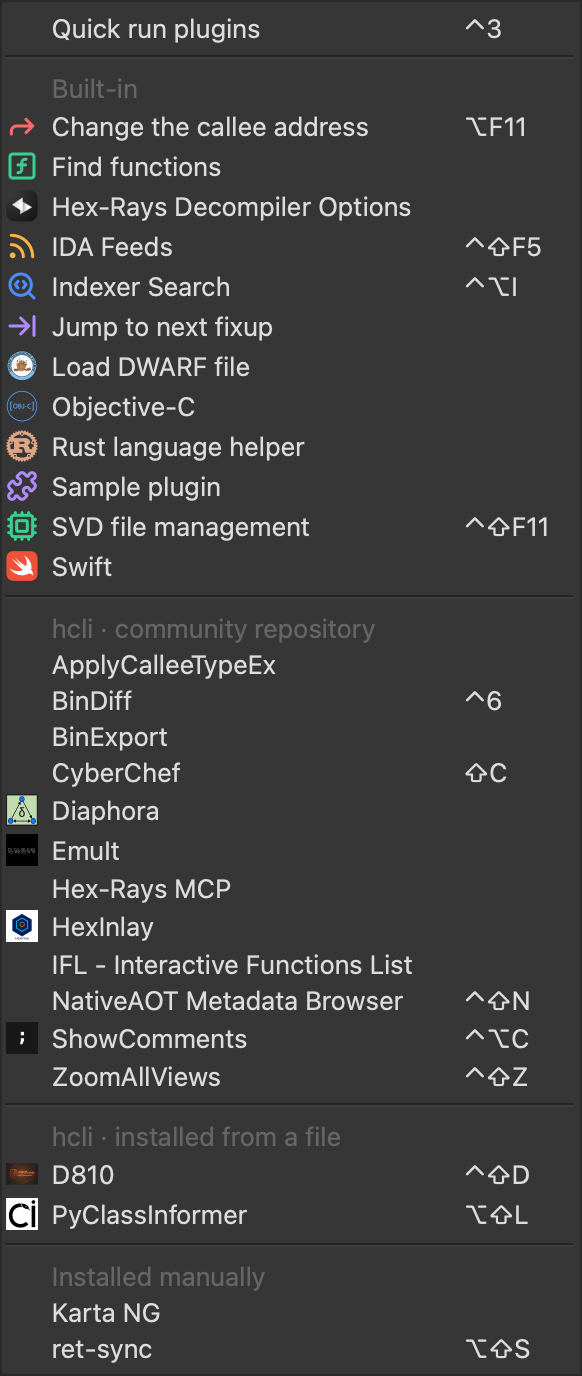
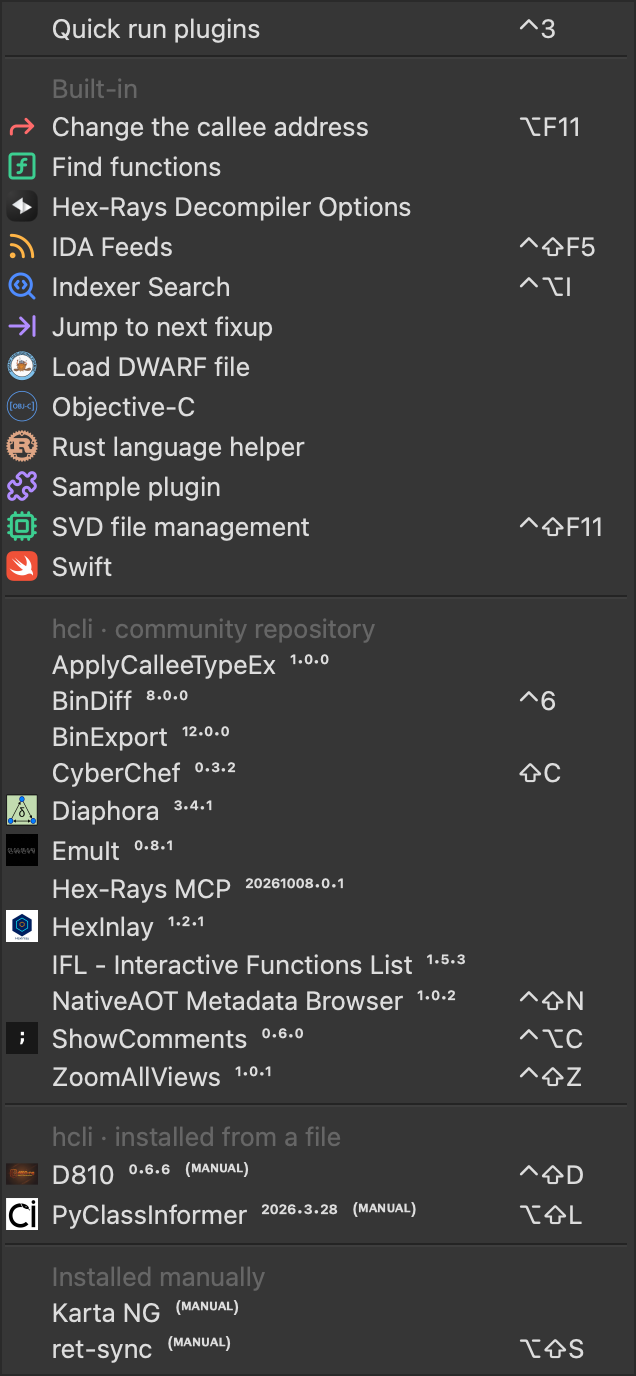
Show each plugin's version, and whether it is out-dated or installed manually

diff --git a/plugin_icons.py b/plugin_icons.py
@@ -16,6 +16,7 @@ answer is kept for grouping the menu until then.
 
 Settings, in <IDA user directory>/plugin-icons/settings.json:
   {"group_menu": false}     keep IDA's own order
+  {"show_versions": false}  don't show the versions
   {"hcli_sources": false}   don't run hcli: one group for all hcli plugins
   {"hcli_path": "..."}      the hcli executable, if it isn't found
 """
@@ -44,7 +45,7 @@ USER_DIR = "plugin-icons"
 IMAGE_EXTENSIONS = (".png", ".jpg", ".jpeg", ".gif", ".bmp")
 DISABLED_EXTENSION = ".none"
 SETTINGS_FILE = "settings.json"
-DEFAULT_SETTINGS = {"group_menu": True, "hcli_sources": True, "hcli_path": None}
+DEFAULT_SETTINGS = {"group_menu": True, "show_versions": True, "hcli_sources": True, "hcli_path": None}
 HCLI_SOURCES_FILE = "hcli-sources.json"
 ICON_SIZE = 64  # rendered square; Qt scales it down to the menu's size
 
@@ -52,6 +53,52 @@ BUILTIN = "Built-in"
 HCLI = "Installed with hcli"  # where from isn't known (yet)
 HCLI_FILE = "hcli \u00b7 installed from a file"
 MANUAL = "Installed manually"
+
+
+# Unicode has superscript forms for the digits and most letters (not q)
+_SUPERSCRIPT = str.maketrans(
+    "0123456789abcdefghijklmnoprstuvwxyz.-+=()",
+    "\u2070\u00b9\u00b2\u00b3\u2074\u2075\u2076\u2077\u2078\u2079"
+    "\u1d43\u1d47\u1d9c\u1d48\u1d49\u1da0\u1d4d\u02b0\u2071\u02b2\u1d4f\u02e1\u1d50\u207f\u1d52\u1d56"
+    "\u02b3\u02e2\u1d57\u1d58\u1d5b\u02b7\u02e3\u02b8\u1dbb"
+    # "." -> U+0387: centred on the superscript digits in menu fonts, where
+    # the usual middle dot (U+00B7) sits below them
+    "\u0387\u207b\u207a\u207c\u207d\u207e",
+)
+
+
+def _superscript(text):
+    """text in superscript characters, which look small next to normal text."""
+    return text.lower().translate(_SUPERSCRIPT)
+
+
+# the tags in superscript capitals: they all exist at one height, while the
+# lowercase superscript l is short ("(manual)" read as "(manuaı)")
+TAG_OUTDATED = "\u207d\u1d3c\u1d41\u1d40\u207b\u1d30\u1d2c\u1d40\u1d31\u1d30\u207e"  # (OUT-DATED)
+TAG_MANUAL = "\u207d\u1d39\u1d2c\u1d3a\u1d41\u1d2c\u1d38\u207e"  # (MANUAL)
+
+
+def _label(name, plugin_file, group, hcli_sources):
+    """The menu text for a plugin: its name, version and a tag, if any.
+
+    Built-in plugins: the name. Installed from a repository: the version,
+    and "(out-dated)" if hcli has a newer one. Installed from a file or
+    manually: the version (if known) and "(manual)".
+    """
+    if group == BUILTIN:
+        return name
+    parts = [name]
+    folder = _plugin_folder(plugin_file)
+    version = folder and _metadata(folder).get("version")
+    if isinstance(version, str) and version:
+        parts.append(_superscript(version))
+    if group in (HCLI_FILE, MANUAL):
+        parts.append(TAG_MANUAL)
+    elif group != HCLI and hcli_sources:  # from a repository
+        plugin = hcli_sources.get(folder and _metadata(folder).get("name"), {})
+        if plugin.get("outdated"):
+            parts.append(TAG_OUTDATED)
+    return "  ".join(parts)
 
 
 def _hcli_repo_group(repo):
@@ -151,8 +198,8 @@ def _declared_logo(plugin_file):
 def _group(plugin_file, hcli_sources):
     """The menu group of the plugin in plugin_file.
 
-    hcli_sources: {hcli plugin name: repository name, or None if installed
-    from a file}, or None when not known.
+    hcli_sources: {hcli plugin name: {"repo": repository name, or None if
+    installed from a file, "outdated": bool}}, or None when not known.
     """
     builtin = os.path.realpath(ida_diskio.idadir("plugins"))
     try:
@@ -167,7 +214,7 @@ def _group(plugin_file, hcli_sources):
     name = _metadata(folder).get("name")
     if not hcli_sources or name not in hcli_sources:
         return HCLI
-    repo = hcli_sources[name]
+    repo = hcli_sources[name]["repo"]
     return _hcli_repo_group(repo) if repo else HCLI_FILE
 
 
@@ -176,12 +223,17 @@ def _hcli_sources_path():
 
 
 def _cached_hcli_sources():
-    """The sources hcli reported last time, or None."""
+    """The sources hcli reported last time (see _group()), or None."""
     try:
         with open(_hcli_sources_path(), encoding="utf-8") as f:
-            return dict(json.load(f)["plugins"])
+            plugins = dict(json.load(f)["plugins"])
     except (OSError, ValueError, KeyError, TypeError):
         return None
+    # files from version 1.0 hold just the repository
+    return {
+        name: info if isinstance(info, dict) else {"repo": info, "outdated": False}
+        for name, info in plugins.items()
+    }
 
 
 def _hcli_executable(configured):
@@ -194,7 +246,7 @@ def _hcli_executable(configured):
 
 
 def _query_hcli_sources(hcli):
-    """{plugin name: repository or None} from `hcli plugin status --json`."""
+    """The sources (see _group()) from `hcli plugin status --json`."""
     result = subprocess.run(
         [hcli, "plugin", "status", "--json"],
         capture_output=True, text=True, timeout=120,
@@ -203,7 +255,10 @@ def _query_hcli_sources(hcli):
     )
     plugins = json.loads(result.stdout)["plugins"]
     return {
-        p["name"]: (p.get("repo") if p.get("in_repository") else None)
+        p["name"]: {
+            "repo": p.get("repo") if p.get("in_repository") else None,
+            "outdated": bool(p.get("upgradable_to")),
+        }
         for p in plugins
         if p.get("kind") == "installed" and p.get("name")
     }
@@ -261,22 +316,21 @@ def _square_png(path):
     return bytes(data)
 
 
-def _menu_name(action):
-    return action.text().replace("&", "")
-
-
 class _MenuIcons(ida_kernwin.UI_Hooks):
     def __init__(self):
         super().__init__()
         self._icons = {}  # image path -> icon id (None if it can't be loaded)
         self._set = {}  # action name -> icon id set by this plugin
         self._seen = None  # the plugin actions handled last time
-        self._groups = {}  # menu name -> group, when grouping the menu
         self._plugin_paths = {}
+        self._settings = dict(DEFAULT_SETTINGS)
+        self._names = set()  # menu names of the plugins with an entry
+        self._groups = {}  # menu name -> group, when grouping the menu
+        self._labels = {}  # menu name -> text shown, when showing versions
         self._hcli_sources = _cached_hcli_sources()
         self._hcli_asked = False  # whether hcli was asked this session
         self._added = {}  # id(menu) -> the headers and separators added to it
-        self._connected = set()  # ids of the menus regrouped before each opening
+        self._connected = set()  # ids of the menus styled again before each opening
         self._menu_retries = 100  # updates to wait for the menu to exist
 
     def updated_actions(self):
@@ -286,9 +340,9 @@ class _MenuIcons(ida_kernwin.UI_Hooks):
             name for name in ida_kernwin.get_registered_actions() if name.startswith(MENU_PREFIX)
         )
         if actions == self._seen:
-            if self._groups and not self._added and self._menu_retries > 0:
+            if (self._groups or self._labels) and not self._connected and self._menu_retries > 0:
                 self._menu_retries -= 1
-                self._group_menus()  # the menu didn't exist yet last time
+                self._style_menus()  # the menu didn't exist yet last time
             return
         self._seen = actions
         self.apply(actions)
@@ -296,11 +350,11 @@ class _MenuIcons(ida_kernwin.UI_Hooks):
     def apply(self, actions):
         plugin_paths = self._plugin_paths = _plugin_paths()
         settings = _settings()
-        if settings["group_menu"] and plugin_paths:
-            sources = self._hcli_sources if settings["hcli_sources"] else None
-            self._update_groups(sources)
-            if settings["hcli_sources"]:
-                self._refresh_hcli_sources(settings["hcli_path"])
+        self._names = {action[len(MENU_PREFIX):] for action in actions} & set(plugin_paths)
+        self._settings = settings
+        self._update_menus()
+        if (settings["group_menu"] or settings["show_versions"]) and settings["hcli_sources"]:
+            self._refresh_hcli_sources(settings["hcli_path"])
 
         for action in sorted(actions):
             ok, current = ida_kernwin.get_action_icon(action)
@@ -324,15 +378,6 @@ class _MenuIcons(ida_kernwin.UI_Hooks):
             icon = self._icons[image]
             if icon is not None and ida_kernwin.update_action_icon(action, icon):
                 self._set[action] = icon
-
-    def _update_groups(self, hcli_sources):
-        names = {action[len(MENU_PREFIX):] for action in (self._seen or ())}
-        self._groups = {
-            name: _group(self._plugin_paths[name], hcli_sources)
-            for name in names
-            if name in self._plugin_paths
-        }
-        self._group_menus()
 
     def _refresh_hcli_sources(self, hcli_path):
         """Ask hcli where its plugins come from, once per session, in the background."""
@@ -359,7 +404,7 @@ class _MenuIcons(ida_kernwin.UI_Hooks):
             def done():
                 if sources is not None:
                     self._hcli_sources = sources
-                    self._update_groups(sources)
+                    self._update_menus()
                 return 0
 
             # back on IDA's main thread, which owns the menus
@@ -367,24 +412,66 @@ class _MenuIcons(ida_kernwin.UI_Hooks):
 
         threading.Thread(target=worker, name="plugin-icons-hcli", daemon=True).start()
 
-    def _group_menus(self):
-        """Group the entries of every menu listing the plugins."""
+    def _update_menus(self):
+        """Work out each entry's group and text, and apply them to the menus."""
+        settings = self._settings
+        sources = self._hcli_sources if settings["hcli_sources"] else None
+        groups = {name: _group(self._plugin_paths[name], sources) for name in self._names}
+        self._groups = groups if settings["group_menu"] else {}
+        self._labels = {}
+        if settings["show_versions"]:
+            for name, group in groups.items():
+                label = _label(name, self._plugin_paths[name], group, sources)
+                if label != name:
+                    self._labels[name] = label
+        self._style_menus()
+
+    def _name(self, action):
+        """The plugin's menu name for an entry, whatever its text shows now."""
+        text = action.text().replace("&&", "\0").replace("&", "").replace("\0", "&")
+        if text in self._names:
+            return text
+        return self._label_names.get(text, text)
+
+    @property
+    def _label_names(self):
+        return {label: name for name, label in self._labels.items()}
+
+    def _style_menus(self):
+        """Group and label the entries of every menu listing the plugins."""
         app = QtWidgets.QApplication.instance()
-        if app is None or not self._groups:
+        if app is None or not (self._groups or self._labels):
             return
         for widget in app.allWidgets():
             try:
                 if not isinstance(widget, QtWidgets.QMenu):
                     continue
-                if not any(_menu_name(a) in self._groups for a in widget.actions()):
+                if not any(self._name(a) in self._names for a in widget.actions()):
                     continue
                 if id(widget) not in self._connected:
-                    # IDA may rebuild the items: group again before each opening
+                    # IDA may rebuild the items: style them again before each opening
                     self._connected.add(id(widget))
-                    widget.aboutToShow.connect(lambda menu=widget: self._group(menu))
-                self._group(widget)
+                    widget.aboutToShow.connect(lambda menu=widget: self._style(menu))
+                self._style(widget)
             except RuntimeError:  # a widget Qt has deleted meanwhile
                 continue
+
+    def _style(self, menu):
+        try:
+            self._label(menu)
+            self._group(menu)
+        except RuntimeError:  # the menu was deleted
+            self._added.pop(id(menu), None)
+
+    def _label(self, menu):
+        """Show each plugin's version after its name (or just the name)."""
+        for action in menu.actions():
+            name = self._name(action)
+            if name not in self._names:
+                continue
+            text = self._labels.get(name, name).replace("&", "&&")
+            if action.text() != text:
+                action.setText(text)
 
     def _group(self, menu):
         """Reorder menu's plugin entries into the groups, each under a header.
@@ -392,37 +479,36 @@ class _MenuIcons(ida_kernwin.UI_Hooks):
         Entries that aren't plugins (e.g. "Quick run plugins") stay first, in
         their order; the plugin entries follow, alphabetically per group.
         """
-        try:
-            for added in self._added.pop(id(menu), []):
-                menu.removeAction(added)
+        for added in self._added.pop(id(menu), []):
+            menu.removeAction(added)
+        if not self._groups:
+            return
 
-            others, grouped = [], {}
-            for action in menu.actions():
-                group = self._groups.get(_menu_name(action))
-                if group is None:
-                    others.append(action)
-                else:
-                    grouped.setdefault(group, []).append(action)
-            for action in menu.actions():
-                if self._groups.get(_menu_name(action)):
-                    menu.removeAction(action)
+        others, grouped = [], {}
+        for action in menu.actions():
+            group = self._groups.get(self._name(action))
+            if group is None:
+                others.append(action)
+            else:
+                grouped.setdefault(group, []).append(action)
+        for actions in grouped.values():
+            for action in actions:
+                menu.removeAction(action)
 
-            # a separator before each header, reusing one the menu already ends with
-            separate = bool(others) and not others[-1].isSeparator()
-            added = []
-            for group in sorted(grouped, key=_group_order):
-                if separate:
-                    added.append(menu.addSeparator())
-                separate = True
-                header = QtGui.QAction(group, menu) if hasattr(QtGui, "QAction") else QtWidgets.QAction(group, menu)
-                header.setEnabled(False)
-                menu.addAction(header)
-                added.append(header)
-                for action in sorted(grouped[group], key=lambda a: _menu_name(a).casefold()):
-                    menu.addAction(action)
-            self._added[id(menu)] = added
-        except RuntimeError:  # the menu was deleted
-            self._added.pop(id(menu), None)
+        # a separator before each header, reusing one the menu already ends with
+        separate = bool(others) and not others[-1].isSeparator()
+        added = []
+        for group in sorted(grouped, key=_group_order):
+            if separate:
+                added.append(menu.addSeparator())
+            separate = True
+            header = QtGui.QAction(group, menu) if hasattr(QtGui, "QAction") else QtWidgets.QAction(group, menu)
+            header.setEnabled(False)
+            menu.addAction(header)
+            added.append(header)
+            for action in sorted(grouped[group], key=lambda a: self._name(a).casefold()):
+                menu.addAction(action)
+        self._added[id(menu)] = added
 
     def free(self):
         for icon in self._icons.values():

diff --git a/README.md b/README.md
@@ -4,6 +4,7 @@ An IDA Pro plugin that makes **Edit › Plugins** easier to scan:
 
 - **Icons**: most plugins never set one, so the menu is a long column of plain text. Plugin Icons uses the logo each plugin already declares in its `ida-plugin.json` (the one shown in the plugin repository), or an image you choose.
 - **Groups**: the entries are sorted into IDA's built-in plugins, plugins installed with hcli (split by the repository they came from, or a local file), and plugins installed manually, each under a header.
+- **Versions**: each plugin's version is shown after its name in small raised digits, marked *(OUT-DATED)* when hcli has a newer one, or *(MANUAL)* when no repository updates it.
 
 ![Edit › Plugins with icons and groups](images/menu.png)
 
@@ -45,7 +46,18 @@ Entries that aren't plugins (*Quick run plugins*) stay at the top. Within each g
 
 A plugin installed with hcli is one whose folder has an `ida-plugin.json`. Where it came from is what `hcli plugin status --json` reports. Plugin Icons runs that in the background, which takes a second or two and downloads the plugin repositories' indexes, as any `hcli plugin` command does. It does so each time IDA starts, and saves the answer in `plugin-icons/hcli-sources.json`, so the menu is grouped right away the next time, while hcli is asked again. The first time, or if hcli isn't found, these plugins are in one group, *Installed with hcli*.
 
-### Settings
+## Versions
+
+| Plugin | Shown |
+|---|---|
+| installed with hcli from a repository | `Diaphora ³·⁴·¹`, or `Diaphora ³·⁴·¹ ⁽ᴼᵁᵀ⁻ᴰᴬᵀᴱᴰ⁾` if hcli has a newer version |
+| installed with hcli from a file | `D810 ⁰·⁶·⁶ ⁽ᴹᴬᴺᵁᴬᴸ⁾` |
+| installed manually | `ret-sync ⁽ᴹᴬᴺᵁᴬᴸ⁾` (and its version, if it has an `ida-plugin.json`) |
+| built-in | the name only |
+
+The version comes from the plugin's `ida-plugin.json`, and *out-dated* from `hcli plugin status --json`. They're written in Unicode superscript characters, which look smaller than the name: a menu entry can't mix font sizes, and on macOS IDA's menus are native. Only the text shown in the menu changes; IDA's actions keep their names.
+
+## Settings
 
 In `<IDA user directory>/plugin-icons/settings.json`, e.g.:
 
@@ -56,7 +68,8 @@ In `<IDA user directory>/plugin-icons/settings.json`, e.g.:
 | Setting | Default | |
 |---|---|---|
 | `group_menu` | `true` | `false` keeps IDA's own order, without groups |
-| `hcli_sources` | `true` | `false` never runs hcli: all its plugins are in one group |
+| `show_versions` | `true` | `false` shows the names only, without versions or tags |
+| `hcli_sources` | `true` | `false` never runs hcli: all its plugins are in one group, without *out-dated* tags |
 | `hcli_path` | found on `PATH` | the `hcli` executable, if it isn't found |
 
 ## How it works
